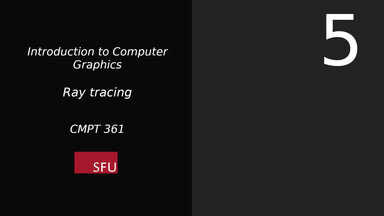
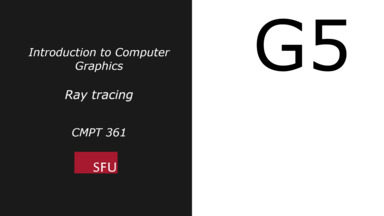
Add lecture G5

diff --git a/introvc/index.html b/introvc/index.html
@@ -319,12 +319,12 @@ Participation in CourSys discussion forum - <b>up to 5% bonus</b></p>
   <tr>
   <td><p style="text-align:center;margin:0;padding:0;"><a href="https://youtu.be/M76-9Nkc8tc" target="_blank"><img src="ims/g3.jpg" /></a></p></td>
   <td><p style="text-align:center;margin:0;padding:0;"><a href="https://youtu.be/_sZ_8J0EqwM" target="_blank"><img src="ims/g4.jpg" /></a></p></td>
-  <td><p style="text-align:center;margin:0;padding:0;"><a href="" target="_blank"><img src="ims/g5.jpg" /></a></p></td>
+  <td><p style="text-align:center;margin:0;padding:0;"><a href="https://youtu.be/qe0HAFjsuP8" target="_blank"><img src="ims/g5.jpg" /></a></p></td>
 </tr>
 <tr>
   <td><p style="text-align:center;margin:0;padding:0;">Reading: CG 8.1-2<br/><a href="https://www.dropbox.com/s/zh0p5b3rkqrxoir/g3_rendering.pdf?dl=0" target="_blank">--Slides--</a></p></td>
   <td><p style="text-align:center;margin:0;padding:0;">Reading: CG 8.8-10<br/><a href="https://www.dropbox.com/s/r0g4ebgea7e9t3g/g4_rasterization.pdf?dl=0" target="_blank">--Slides--</a></p></td>
-  <td><p style="text-align:center;margin:0;padding:0;">Reading: CG 12.1-3</p></td>
+  <td><p style="text-align:center;margin:0;padding:0;">Reading: CG 12.1-3<br/><a href="https://www.dropbox.com/s/gr33pw6cqf1if2a/g5_raytracing.pdf?dl=0" target="_blank">--Slides--</a></p></td>
 </tr>
 
 <tr><td>&nbsp;</td></tr>
